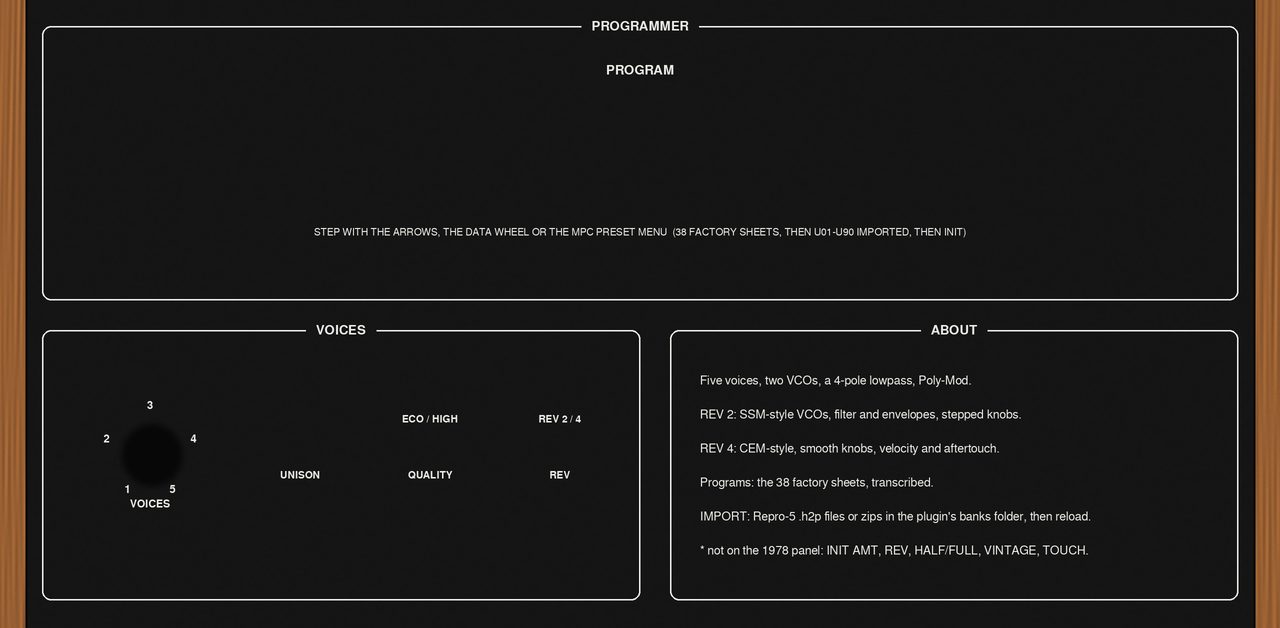
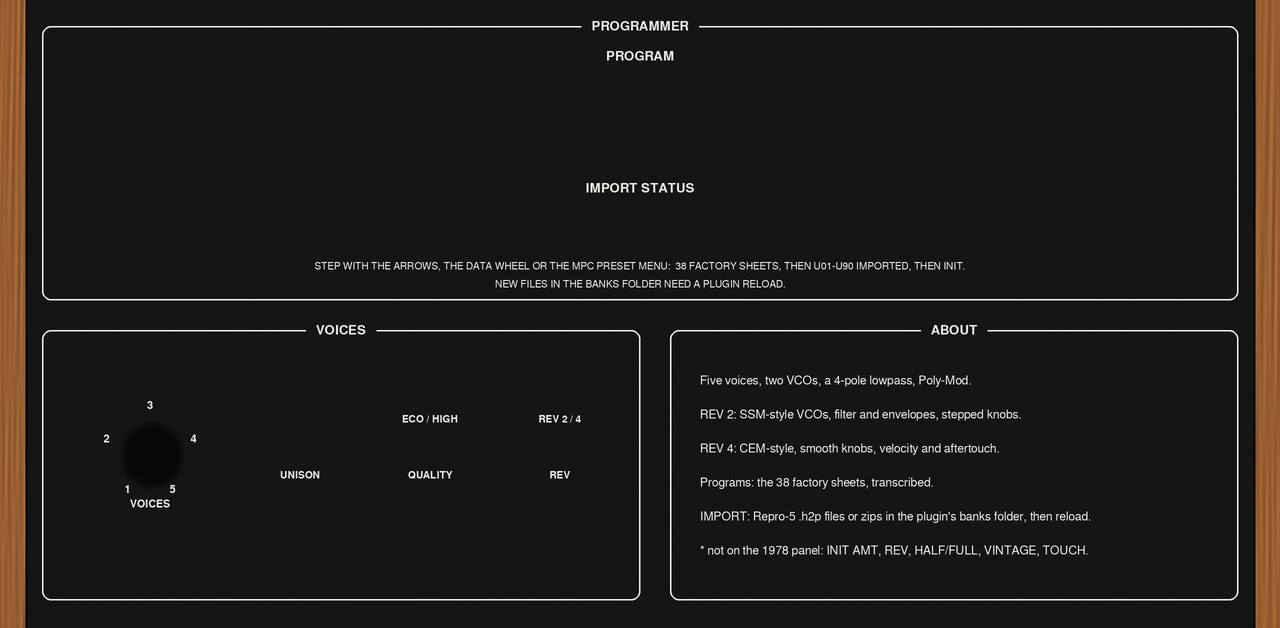
Program page: separate name and status bars, shorter status; strip an upload hash prefix from imported names
Claude-Session: https://claude.ai/code/session_01CF4QLC4k9ETX5v58JUTbGL

Changed region(s): [[0.25, 0.3631, 0.75, 0.4538], [0.4688, 0.0605, 0.5312, 0.121], [0.4375, 0.2723, 0.5312, 0.3025]]

diff --git a/skin/make_skin.py b/skin/make_skin.py
@@ -387,8 +387,10 @@ def tab_filter():
 def tab_program():
     t = Tab("PROGRAM", "PROGRAMMER")
     t.box(42, 26, 1238, 300, "PROGRAMMER")
-    t.text(640, 70, "PROGRAM", 13)                                       # the name (a live stepper) and the import status (a live readout) are drawn by MPC
-    t.text(640, 232, "STEP WITH THE ARROWS, THE DATA WHEEL OR THE MPC PRESET MENU  (38 FACTORY SHEETS, THEN U01-U90 IMPORTED, THEN INIT)", 10, bold=False)
+    t.text(640, 56, "PROGRAM", 13)
+    t.text(640, 188, "IMPORT STATUS", 13)                                       # the name (a live stepper) and the import status (a live readout) are drawn by MPC
+    t.text(640, 266, "STEP WITH THE ARROWS, THE DATA WHEEL OR THE MPC PRESET MENU:  38 FACTORY SHEETS, THEN U01-U90 IMPORTED, THEN INIT.", 10, bold=False)
+    t.text(640, 284, "NEW FILES IN THE BANKS FOLDER NEED A PLUGIN RELOAD.", 10, bold=False)
     t.box(42, 330, 640, 600, "VOICES")
     t.knob("voices", 150, 450, r=30, label="VOICES", scale=False)
     for i, n in enumerate("12345"):
@@ -482,8 +484,8 @@ def build(root):
                              % (c["cx"], c["cy"] + Y_OFF, k, name, name, w, w))
             seen.add(k)
         if t.name == "PROGRAM":
-            lines.append('stepper w=1040 h=64 cx=640 cy=%d label="" key=preset get=program_name label_align=center' % (130 + Y_OFF))
-            lines.append('readout w=1040 h=38 cx=640 cy=%d label="" key=import_status label_align=center' % (190 + Y_OFF))
+            lines.append('stepper w=1040 h=64 cx=640 cy=%d label="" key=preset get=program_name label_align=center' % (112 + Y_OFF))
+            lines.append('readout w=1040 h=38 cx=640 cy=%d label="" key=import_status label_align=center' % (222 + Y_OFF))
         for page, keys in t.qlinks:
             lines.append('qlinks "%s" = %s' % (page, ",".join(keys)))
         lines.append("")

diff --git a/src/plugin.c b/src/plugin.c
@@ -58,6 +58,9 @@ static void add_user(p5_plugin_t *s, const char *name, const uint8_t *data, size
 static const char *base_noext(const char *path, char *b, size_t n) {
     const char *f = strrchr(path, '/');
     f = f ? f + 1 : path;
+    int hex = 0;                                   /* an upload's "1a2b3c4d-" prefix is not part of the name */
+    while (hex < 8 && isxdigit((unsigned char)f[hex])) hex++;
+    if (hex == 8 && f[8] == '-' && f[9] && f[9] != '.') f += 9;
     snprintf(b, n, "%s", f);
     char *dot = strrchr(b, '.');
     if (dot && dot != b) *dot = 0;
@@ -216,8 +219,8 @@ static int p5_get_param(void *h, const char *k, char *b, int n) {
     if (!strncmp(k, "preset:", 7)) return slot_name(s, atoi(k + 7), b, n);
     if (!strcmp(k, "program_name")) return slot_name(s, s->preset, b, n);
     if (!strcmp(k, "import_status")) {
-        if (!s->nuser) return snprintf(b, (size_t)n, "No imports. Put Repro-5 .h2p or .zip files in banks/, then reload the plugin.") + 1;
-        return snprintf(b, (size_t)n, "%d imported as U01-U%02d. New files in banks/ need a plugin reload.", s->nuser, s->nuser) + 1;
+        if (!s->nuser) return snprintf(b, (size_t)n, "No files in banks/") + 1;
+        return snprintf(b, (size_t)n, "%d imported (U01-U%02d)", s->nuser, s->nuser) + 1;
     }
     if (!strcmp(k, "state")) {
         int w = snprintf(b, (size_t)n, "P5A %d", s->preset);

diff --git a/test/test_plugin_import.c b/test/test_plugin_import.c
@@ -35,6 +35,10 @@ int main(void) {
     void *h = E->create(dir);
     assert(h);
     char b[128];
+    {   char nb[40];
+        assert(!strcmp(base_noext("x/bd590f2d-Pete_Standing_2.h2p", nb, sizeof nb), "Pete_Standing_2"));
+        assert(!strcmp(base_noext("bd590f2d-.h2p", nb, sizeof nb), "bd590f2d-") && !strcmp(base_noext("Brass-1234.h2p", nb, sizeof nb), "Brass-1234"));
+        assert(!strcmp(base_noext("dir/abcdefgh-X.h2p", nb, sizeof nb), "abcdefgh-X")); }
     const int NF = p5_factory_count();
     /* the program list: factory sheets, then imported patches sorted by file name (bank.ZIP: Test Brass, Inverted Env; then "zz Brass"), then Init */
     assert(E->get_param(h, "preset:0", b, sizeof b) > 0 && !strcmp(b, p5_factory_name(0)));
@@ -94,7 +98,7 @@ int main(void) {
 
     /* no folder, an empty folder, an unreadable name: nothing found, "No files", and the plugin still plays */
     h = E->create("/nonexistent/banks");
-    assert(h && E->get_param(h, "import_status", b, sizeof b) > 0 && strstr(b, "No imports"));
+    assert(h && E->get_param(h, "import_status", b, sizeof b) > 0 && strstr(b, "No files"));
     E->set_param(h, "preset", "38");                                          /* an empty slot is Init */
     assert(getf(E, h, "preset") == 38 && E->get_param(h, "program_name", b, sizeof b) > 0 && !strcmp(b, "U01 Init"));
     static int16_t out[256];
